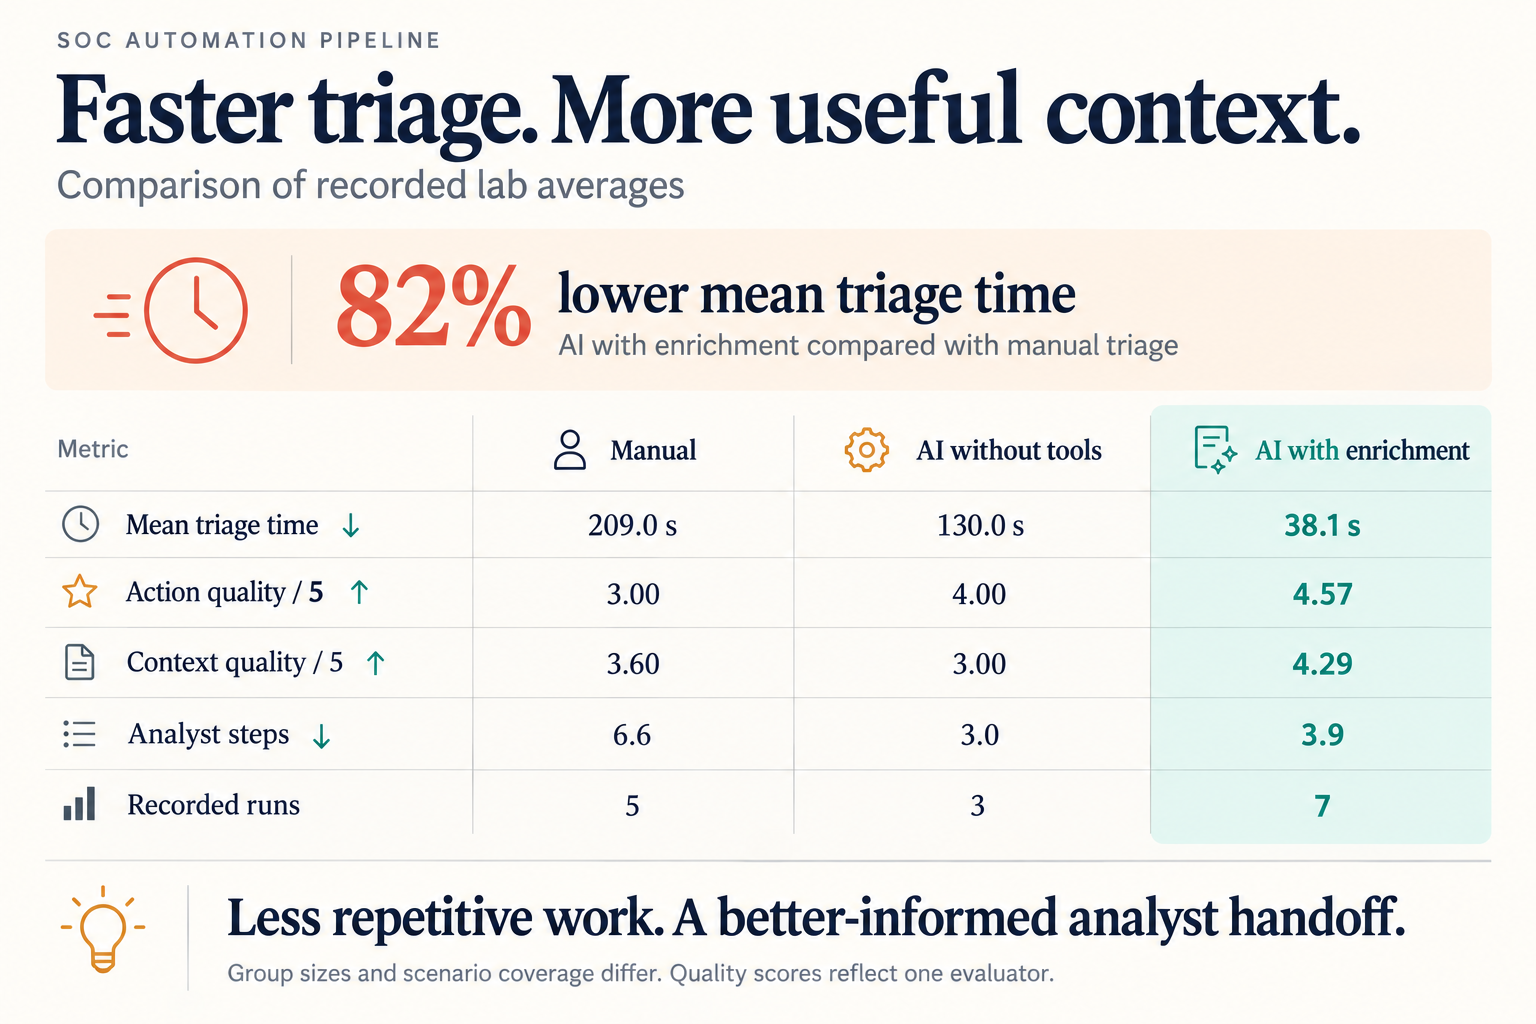
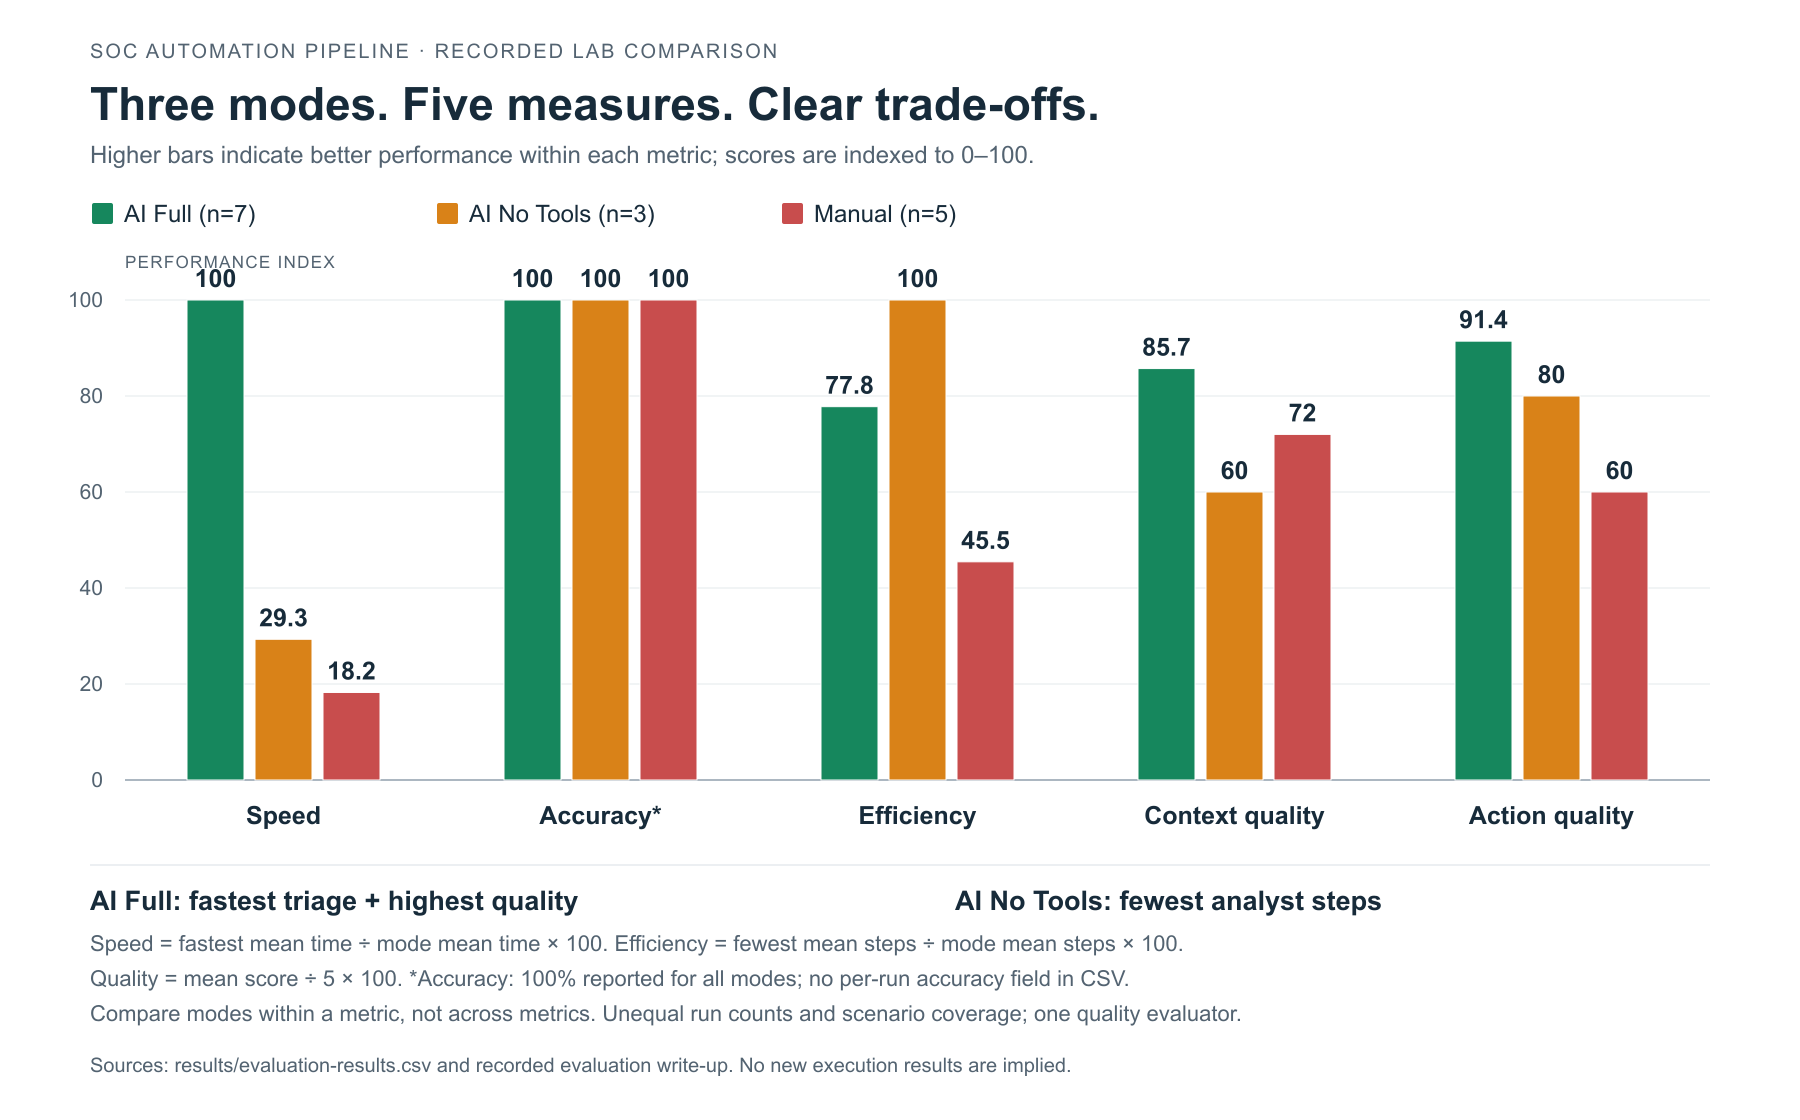
Replace comparison scorecard with five grouped bar clusters

diff --git a/results/README.md b/results/README.md
@@ -38,7 +38,18 @@ The values below are calculated from each mode's available CSV rows.
 
 Relative to the manual average, the recorded model-only time is 37.8% lower and the integrated time is 81.8% lower. These are descriptive comparisons across differently sized groups, not causal or production estimates.
 
-![Recorded lab averages comparing manual triage, AI without tools and AI with enrichment](../screenshots/triage-comparison.png)
+![Five grouped bar clusters comparing AI Full, AI No Tools and Manual on higher-is-better indices](../screenshots/triage-comparison.png)
+
+### Grouped chart scales
+
+The chart separates the three modes within each metric. Every bar starts at zero; a higher index indicates better performance for that metric. Compare modes within a cluster, not absolute scores across different metrics.
+
+- **Speed:** fastest mode mean time divided by the mode's mean time, multiplied by 100. AI Full sets the 100 benchmark at 38.1 seconds.
+- **Accuracy:** the recorded evaluation write-up reports 100% for every mode. This is a reported result, not a recalculation from CSV rows; the CSV has no per-run accuracy field.
+- **Efficiency:** fewest mode mean analyst steps divided by the mode's mean steps, multiplied by 100. AI No Tools sets the 100 benchmark at 3.0 steps. This measures step economy, not completeness of investigation.
+- **Context and action quality:** mean rubric score divided by 5, multiplied by 100.
+
+Indices use unrounded means and are displayed to at most one decimal place. AI Full leads on speed and both quality scores; AI No Tools leads on step economy, while reported accuracy is tied. Group sizes and scenario coverage differ, and one evaluator assigned quality scores.
 
 ### Preserved evaluation radar
 

diff --git a/README.md b/README.md
@@ -36,11 +36,11 @@ That combination matters: a useful handoff needs investigation context as well a
 | Context quality / 5 | 3.60 | 3.00 | 4.29 |
 | Average analyst steps | 6.6 | 3.0 | 3.9 |
 
-![Comparison of recorded lab averages: enriched AI triage takes 38.1 seconds versus 209 seconds manually, with higher action and context scores](screenshots/triage-comparison.png)
+![Grouped bars comparing AI Full, AI No Tools and Manual across speed, reported accuracy, efficiency, context quality and action quality](screenshots/triage-comparison.png)
 
 [Explore the records and calculations](results/README.md) · [Use the interactive dashboard](results/dashboard.html).
 
-The comparison graphic uses CSV-derived averages; the original radar is preserved in the results documentation. Reconciliation notes explain four timing mismatches and the integrated step mean of 3.9.
+Bars use a higher-is-better 0–100 index, with [formulas and source distinctions](results/README.md#grouped-chart-scales) documented alongside the original radar. AI Full leads on speed and quality; AI No Tools uses the fewest steps. Reported accuracy is tied, not recomputed from the CSV.
 
 ## How the pipeline works
 
